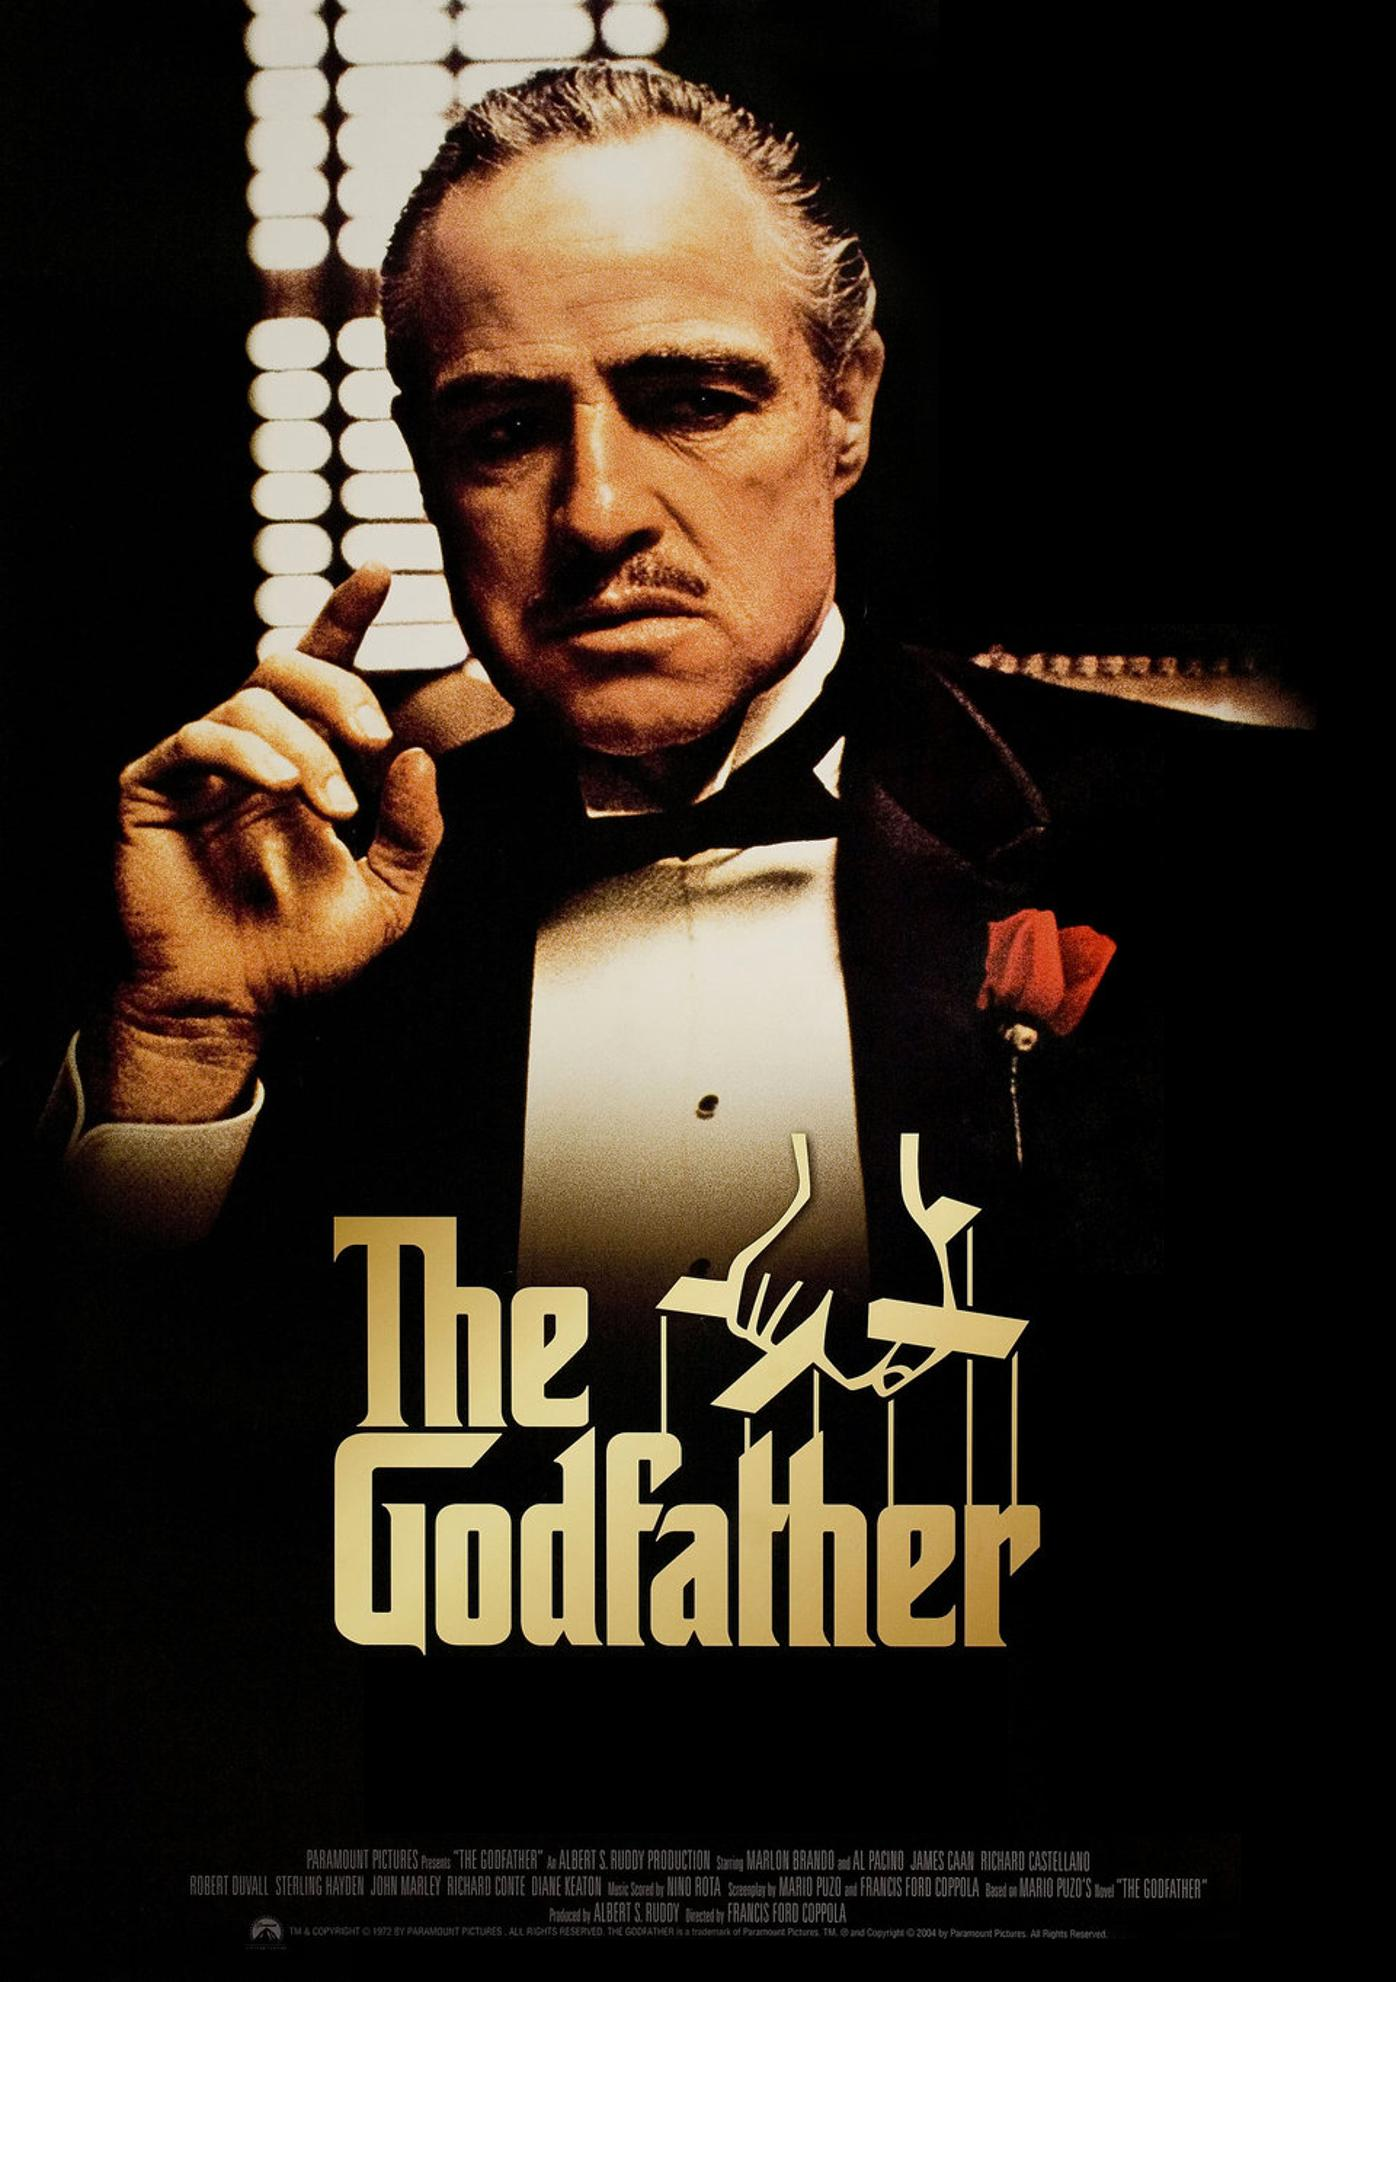
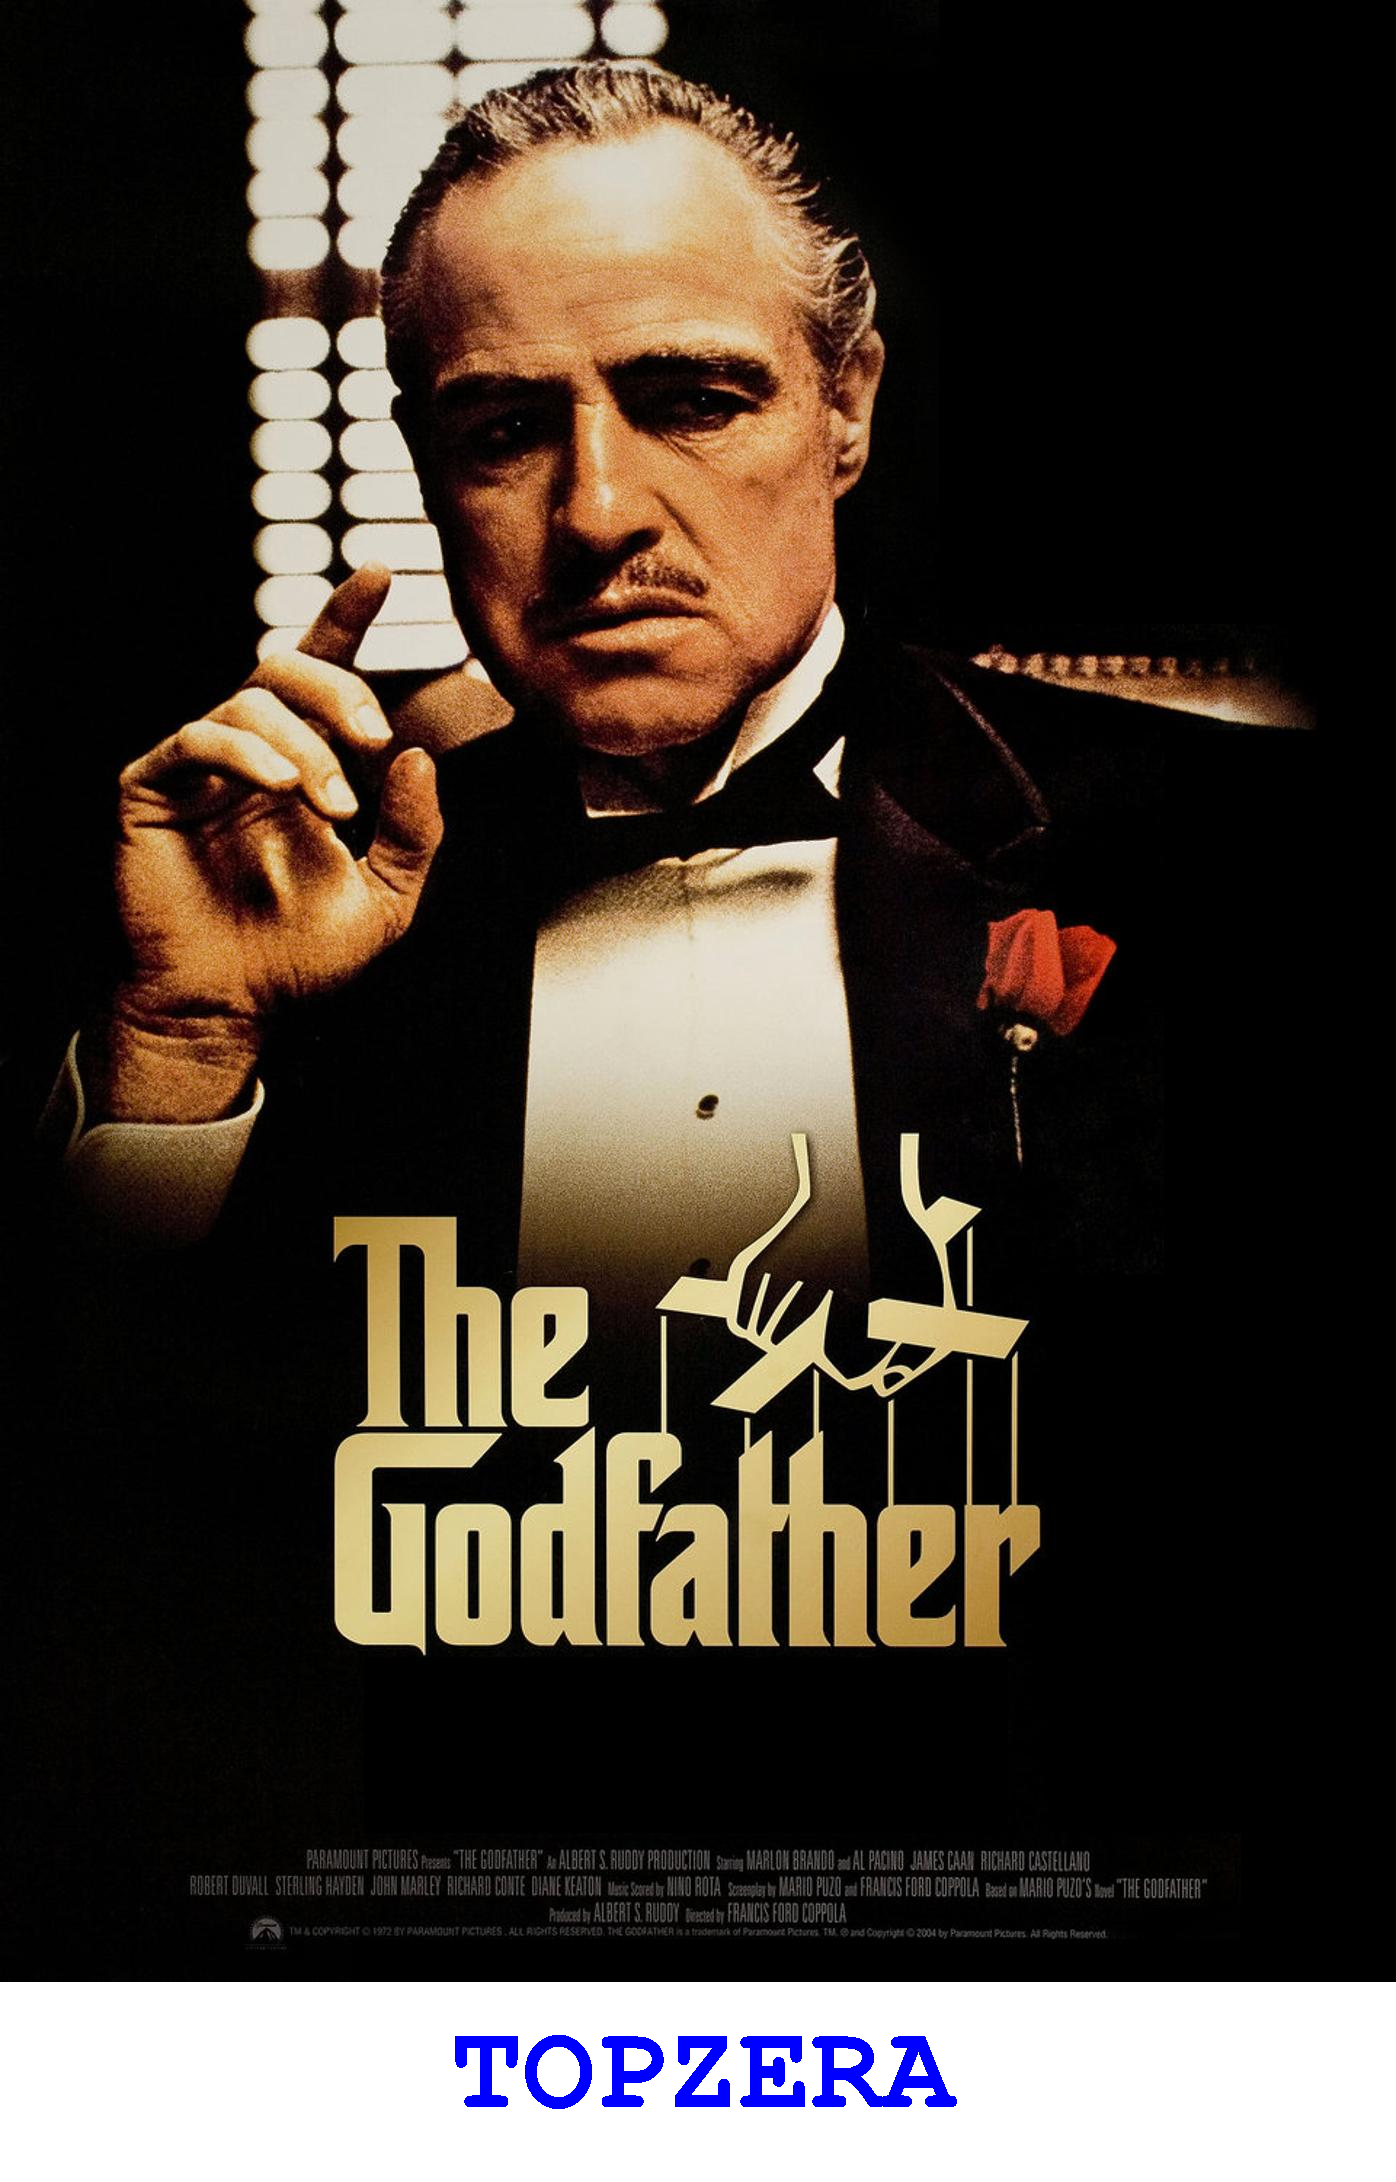
Configurando a fonte do texto

Changed region(s): [[0.308, 0.9349, 0.6777, 0.9661]]

diff --git a/src/GeradoraDeFigurinhas.java b/src/GeradoraDeFigurinhas.java
@@ -25,9 +25,14 @@ public class GeradoraDeFigurinhas {
         Graphics2D grafics = (Graphics2D) novaImagem.getGraphics();
         grafics.drawImage(imagemOriginal, 0, 0, null);
 
+        // Configurando a fonte do texto
+        var fonte = new Font(Font.MONOSPACED, Font.BOLD, 120);
+        grafics.setFont(fonte);
+        grafics.setBackground(Color.GREEN);
+        grafics.setColor(Color.BLUE);
         // escrever uma msg na nova imagem
 
-        grafics.drawString("TOZERA", 0, novaAltura - 100);
+        grafics.drawString("TOPZERA", 450, novaAltura - 75);
 
         // escrever a img em uma novo arquivo
 
